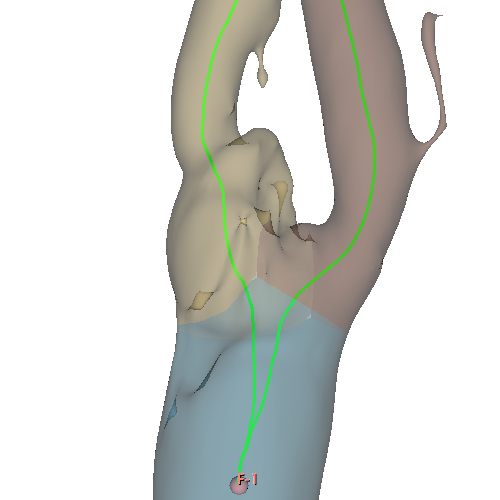
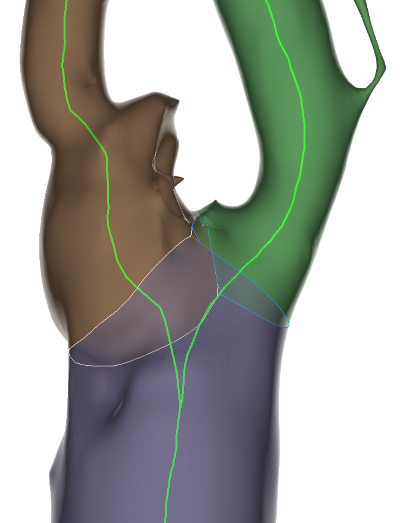
Compute branch profiles in 'BranchClipper module'.
Branch profiles are created as models.

The module may create branch surfaces as segments and/or branch profiles.

diff --git a/BranchClipper/Logic/vtkSlicerBranchClipperLogic.h b/BranchClipper/Logic/vtkSlicerBranchClipperLogic.h
@@ -36,6 +36,7 @@
 
 #include <vtkPolyData.h>
 #include <vtkSetGet.h>
+#include <vtkPolyDataCollection.h>
 
 /// \ingroup Slicer_QtModules_ExtensionTemplate
 class VTK_SLICER_BRANCHCLIPPER_MODULE_LOGIC_EXPORT vtkSlicerBranchClipperLogic :
@@ -88,6 +89,19 @@ public:
   void GetBranch(const vtkIdType index, vtkPolyData * surface);
 
   void Execute();
+  
+  // For bifurcation profiles.
+  vtkSetMacro(BifurcationProfileGroupIdsArrayName, std::string);
+  vtkGetMacro(BifurcationProfileGroupIdsArrayName, std::string);
+  vtkSetMacro(BifurcationProfileBifurcationGroupIdsArrayName, std::string);
+  vtkGetMacro(BifurcationProfileBifurcationGroupIdsArrayName, std::string);
+  vtkSetMacro(BifurcationProfileOrientationArrayName, std::string);
+  vtkGetMacro(BifurcationProfileOrientationArrayName, std::string);
+  
+  vtkPolyDataCollection * GetOutputBifurcationProfilesCollection()
+  {
+    return BifurcationProfilesCollection;
+  }
 
 protected:
   vtkSlicerBranchClipperLogic();
@@ -118,6 +132,15 @@ protected:
   
   vtkSmartPointer<vtkPolyData> Output = nullptr;
   vtkSmartPointer<vtkPolyData> OutputCenterlines = nullptr;
+  
+  // For bifurcation profiles.
+  bool CreatePolyDataFromCell(vtkIdType cellId, vtkPolyData * profiledOutput, vtkPolyData * cellPolyData);
+  
+  std::string BifurcationProfileGroupIdsArrayName = "BifurcationProfileGroupIds";
+  std::string BifurcationProfileBifurcationGroupIdsArrayName = "BifurcationProfileBifurcationGroupIds";
+  std::string BifurcationProfileOrientationArrayName = "BifurcationProfileOrientation";
+  
+  vtkPolyDataCollection * BifurcationProfilesCollection = nullptr;
   
 private:
 

diff --git a/Docs/BranchClipper.md b/Docs/BranchClipper.md
@@ -1,18 +1,22 @@
 # Branch clipper
 
-This module splits a bifurcated vascular segment into individual branches, given its centerline model.
+This module may split a bifurcated vascular segment into individual branches, given its centerline model. It may also create models of the splitting lines of bifurcations.
 
 ### Usage
 
-Select a segment representing a vascular tree and its derived centerline.
+Select a segment representing a vascular tree and its derived centerline. Specify whether branch segments and/or bifurcation profiles should be created.
 
-The result will be one segment per branch, available in the segment editor.
+The result will be one segment per branch, available in the segment editor. The bifurcation profiles are created as child nodes of the input centerline; they can be browsed in the widget of the 'Models' module.
 
 ![Branch clipper](BranchClipper_0.png)
 
+![Texte alternatif](BranchClipper_1.png)
+
 ### Notes
 
-The quality of a segmented lumen is important. It must not contain holes.
+- The quality of the input segmented lumen is important. It must not contain holes.
+- Limit the study to a targeted zone of interest since the processings may be time consuming.
+- Typically, 3 profile models are created from a simple bifurcation. Adjust the visibility of profiles of interest to suit a usage context.
 
 ### Acknowledgement
 
